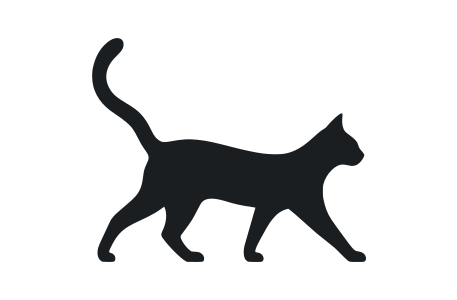
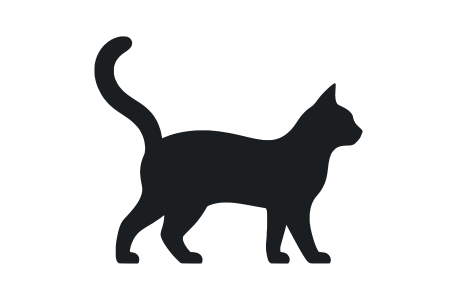
Use the standing side-profile cat as the Amy OS mark

Changed region(s): [[0.1838, 0.12, 0.7965, 0.9], [0.5208, 0.63, 0.8271, 0.9], [0.3982, 0.84, 0.4595, 0.9]]

diff --git a/branding/README.md b/branding/README.md
@@ -4,9 +4,9 @@
 with the built-in imagegen tool. `./branding/render.sh` rebuilds every PNG and
 the Debian boot-menu SVG; it needs librsvg and Python 3.
 
-Concept brief: “An original walking cat in side profile, facing right, with
-a raised tail, natural proportions and a smooth, solid silhouette. The simple
-style of the old logo, with a fresh drawing. No lettering or interior detail.”
+Concept brief: “An original standing cat in side profile, facing right, with
+a raised tail, natural proportions and a smooth, solid silhouette. No lettering
+or interior detail.”
 
 The artwork is monochrome: no wordmark, colored tile or decorative line.
 
